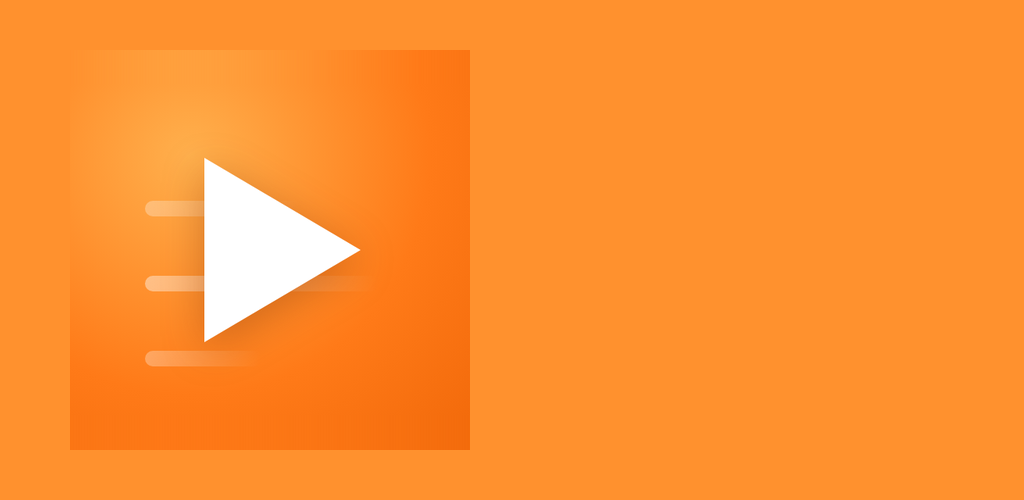
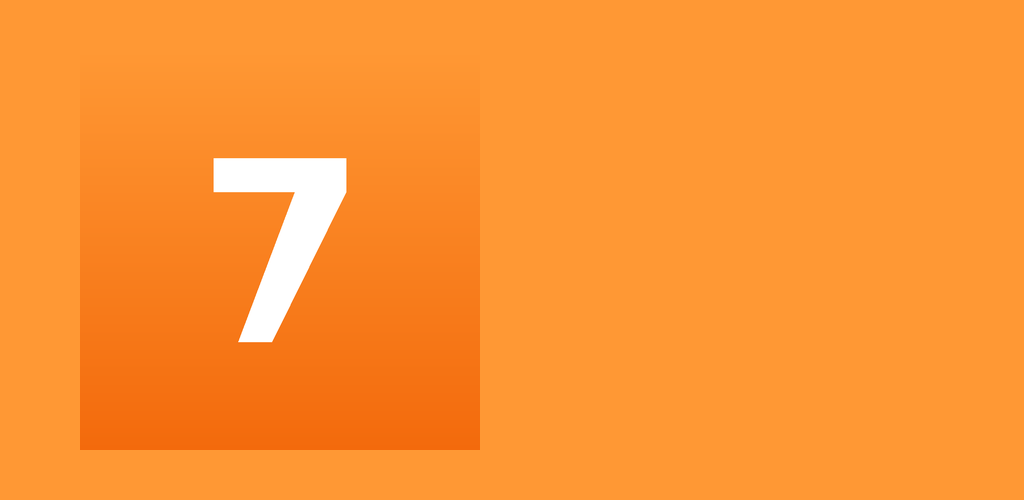
Icone : le 7 seul sur l'orange de la marque
Dernier mot du client : l'icone doit porter le 7, centre, et rien
d'autre — sur le meme orange que la version precedente.

Ce que ca corrige. Le triangle de lecture ne portait aucune marque :
rien n'y reliait l'icone a 7 MOTION, ni au site, ni aux revendeurs. Et
il rappelait fortement YouTube — triangle blanc plein cadre sur fond
chaud, sur le magasin de Google, ou la regle sur les icones pretant a
confusion est appliquee de pres. Le 7 regle les deux d'un coup : il
appartient au client, et il ne ressemble a rien d'autre dans la
categorie (voir sa capture de recherche : tous les concurrents sont en
bleu nuit ou noir).

Le 7 est DESSINE en polygones, pas tape dans une police : il reste net
du 48 px de l'ecran d'accueil au 512 du Store, et ne depend d'aucune
fonte installee sur la machine de build.

L'icone au triangle est CONSERVEE (icon_7motion_orange.png) : c'est la
version d'origine de la fiche Play et le client veut garder les deux.

Icone de lanceur, icone adaptative, logo affiche dans l'app et visuels
de la fiche Play : tous alignes sur le 7.

versionCode 16 -> 17.

Claude-Session: https://claude.ai/code/session_01AN6LFg1VsUD8nkV13WmAig

diff --git a/lib/core/branding/brand_logo.dart b/lib/core/branding/brand_logo.dart
@@ -63,10 +63,10 @@ class BrandLogo extends StatelessWidget {
   static String get _assetPath {
     switch (FlavorConfig.current.flavor) {
       case Flavor.sevenMotion:
-        // MÊME image que l'icône du téléphone et que la fiche Google Play
-        // (2026-08-02) : le client tournait ses vidéos avec deux identités
-        // à l'écran, celle du Store et celle de l'app.
-        return 'assets/branding/icon_7motion_orange.png';
+        // MÊME image que l'icône du téléphone (2026-08-02) : le 7 seul sur
+        // l'orange de la marque. L'app et le Store doivent montrer la même
+        // chose — le client tournait ses vidéos avec deux identités.
+        return 'assets/branding/icon_7motion_seven.png';
       case Flavor.prive:
         return 'assets/branding/prive_icon.png';
     }
